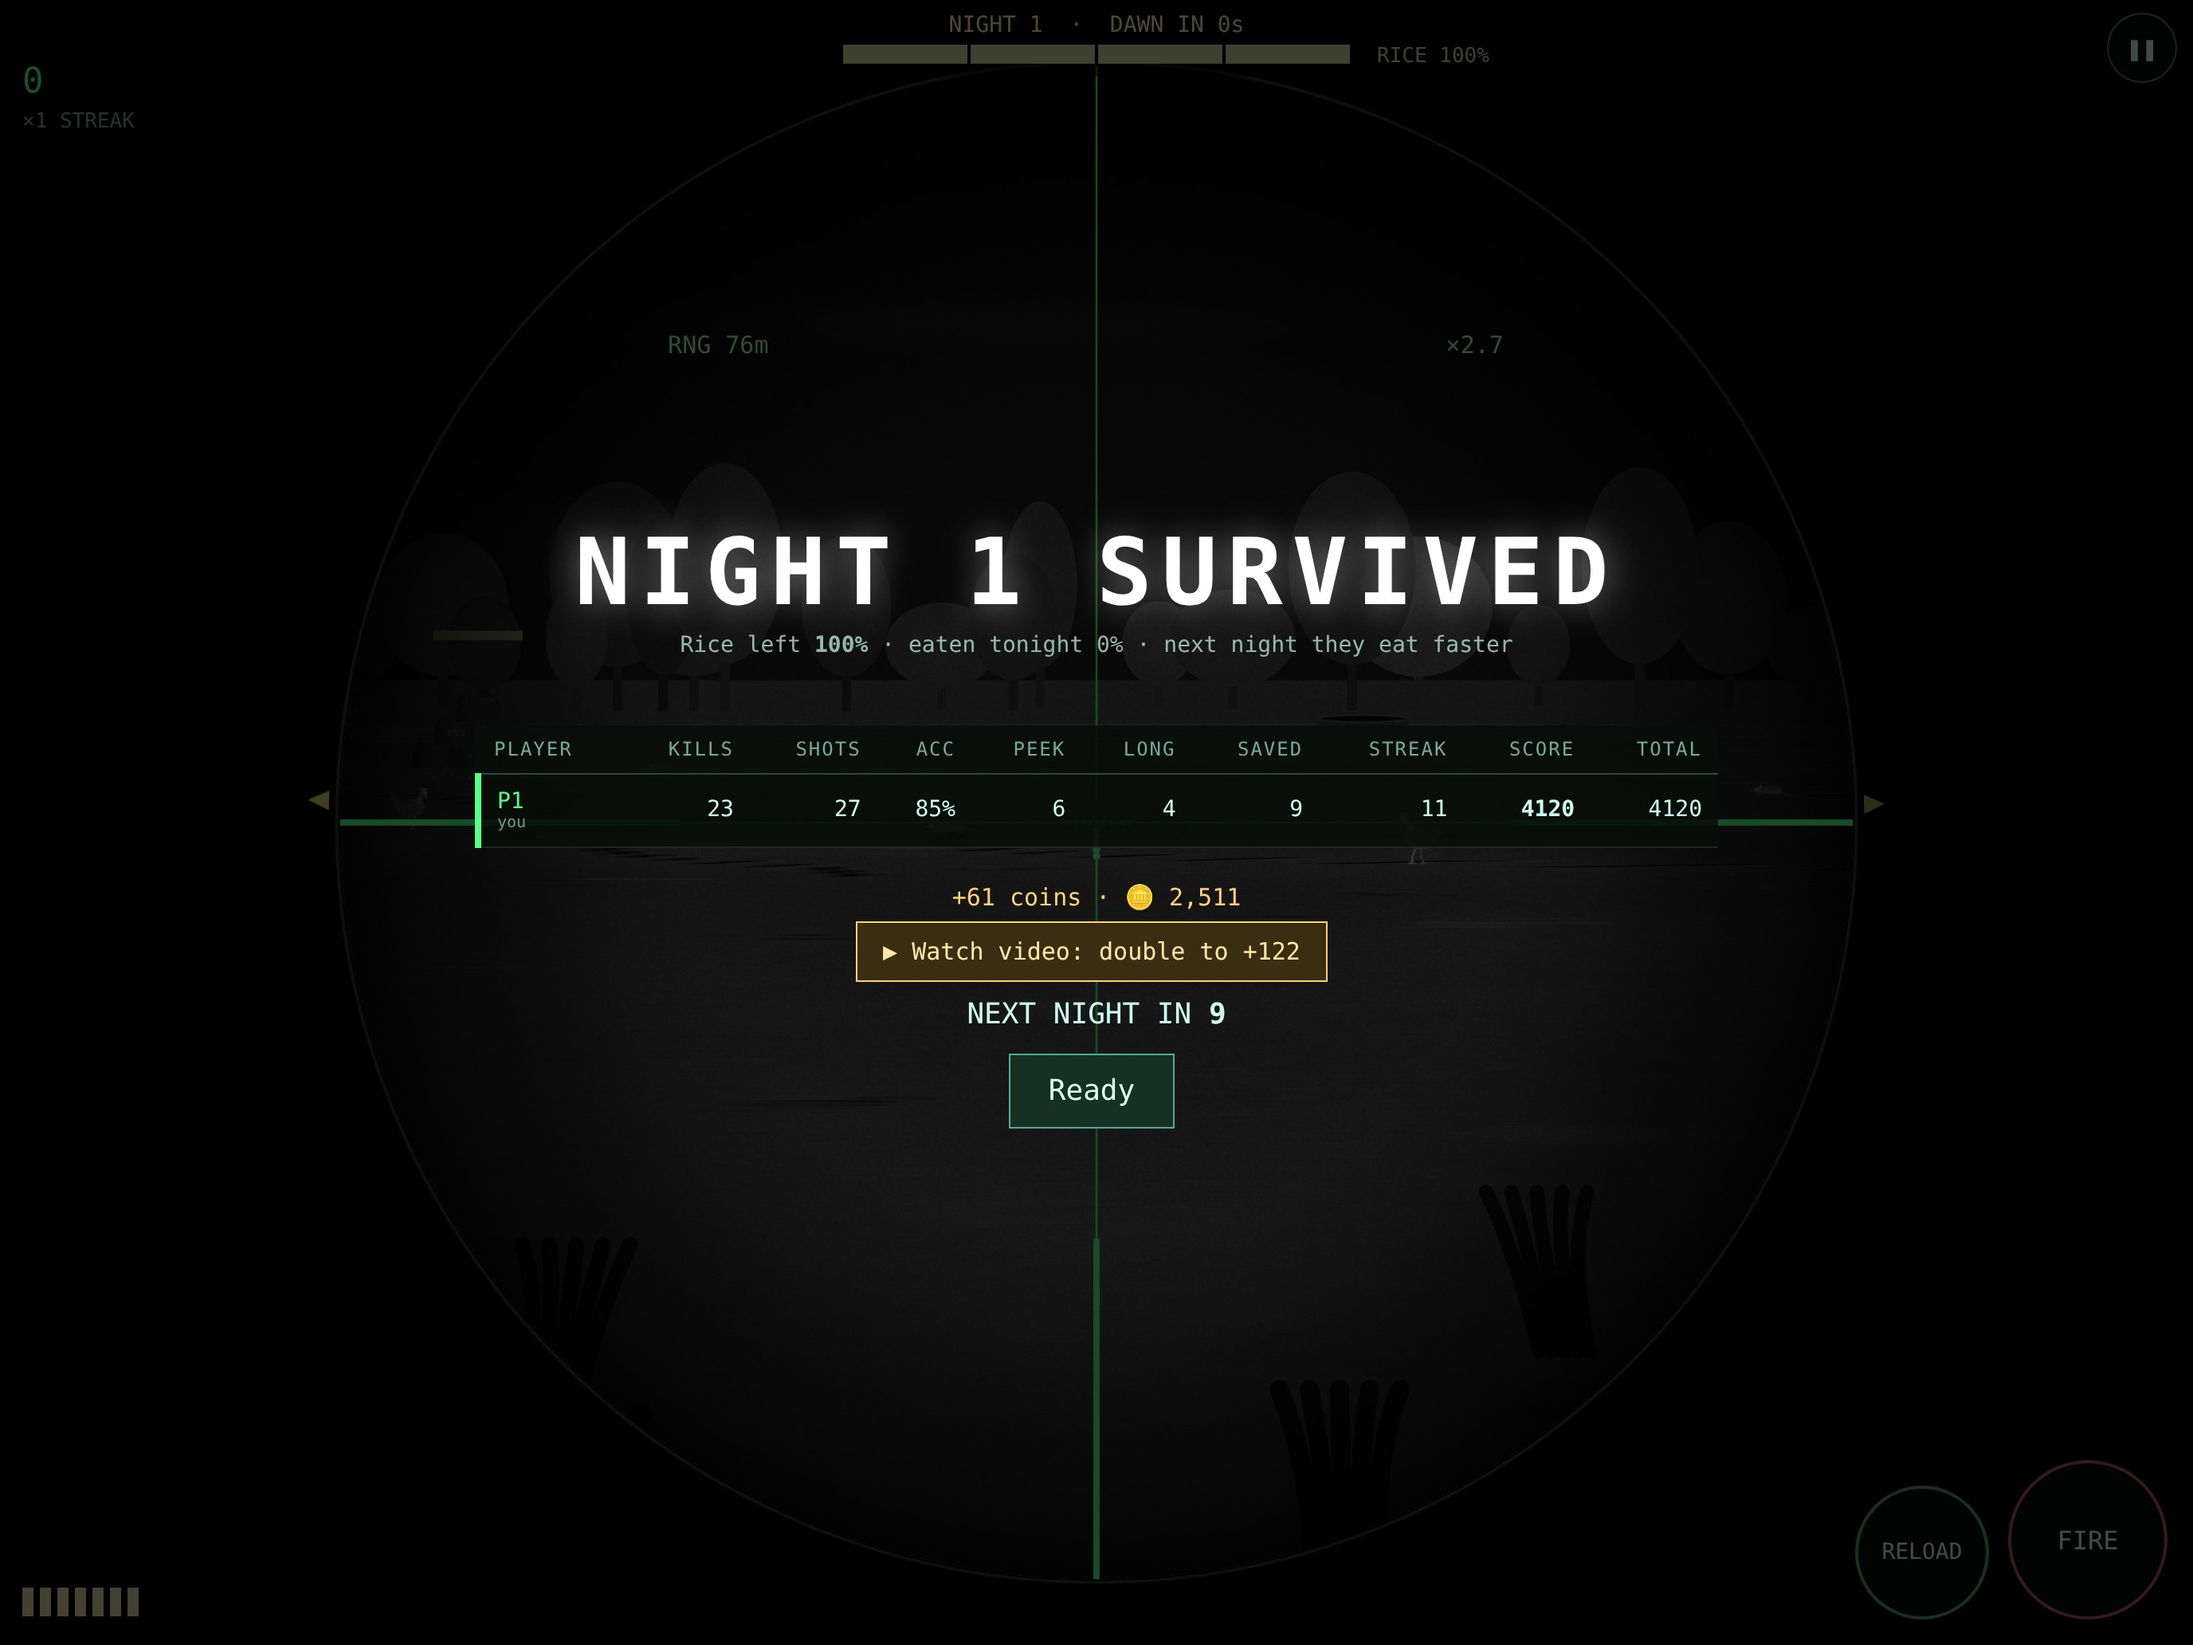
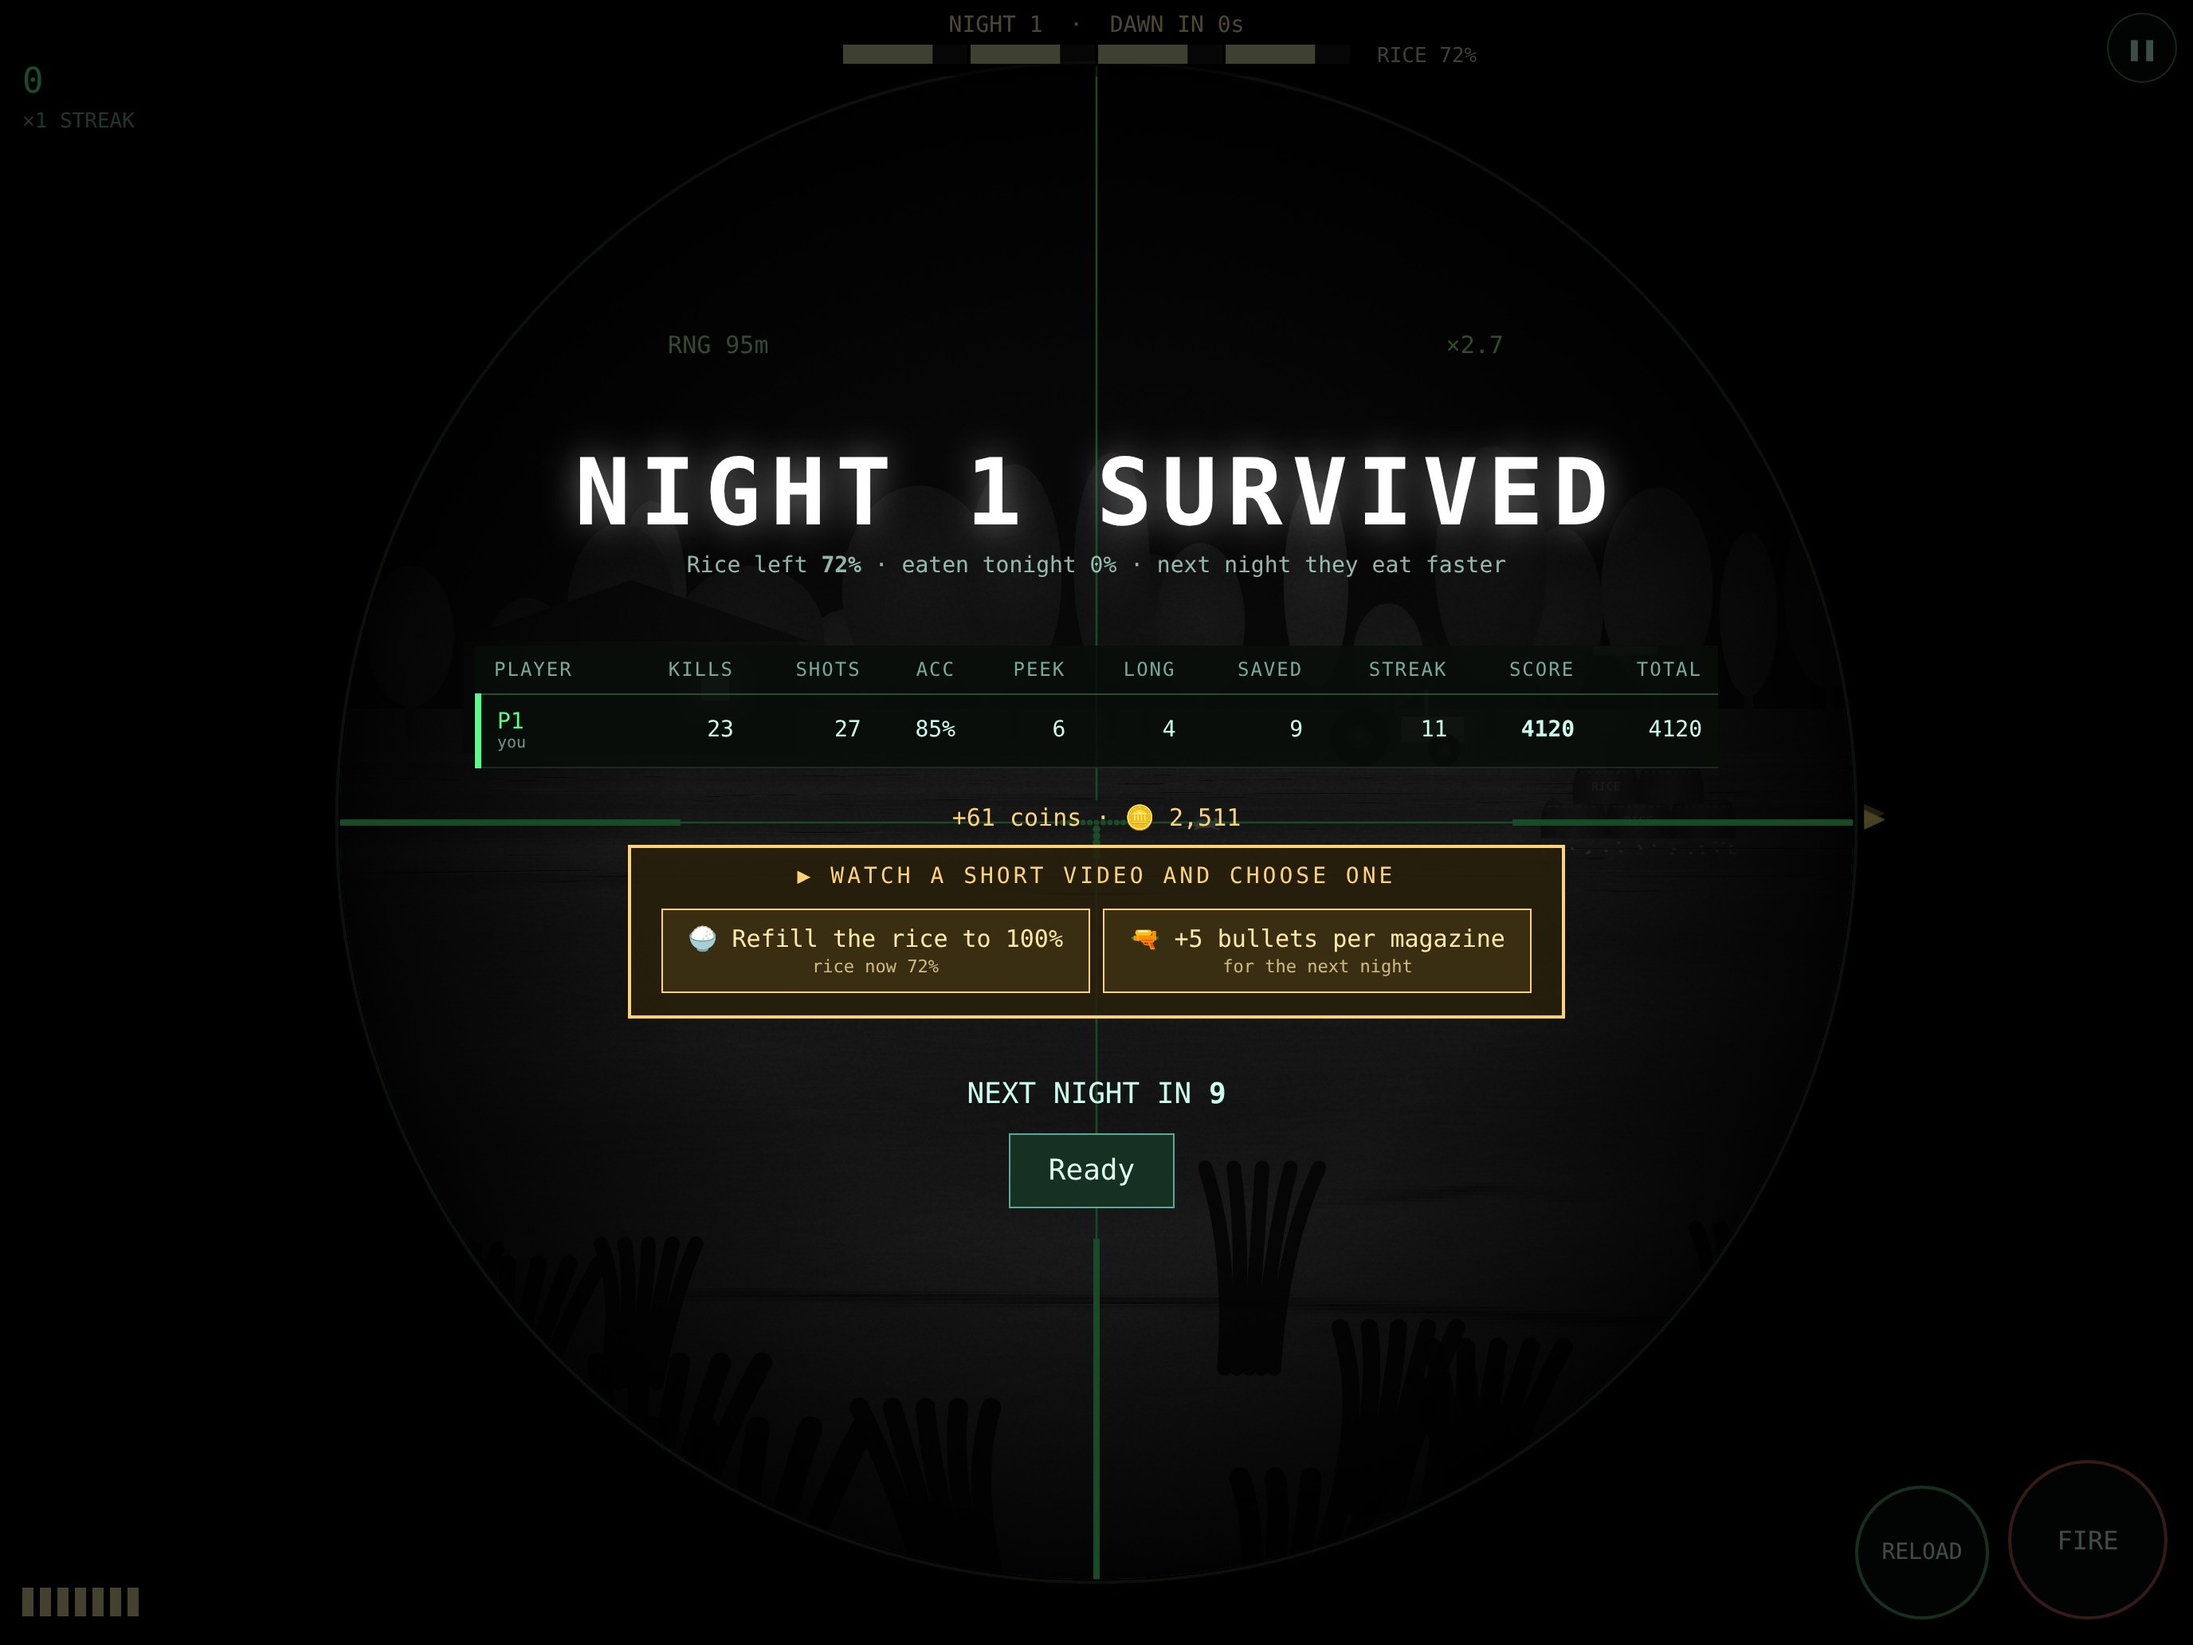
Night Scope: app-ads.txt for AdMob

diff --git a/games/index.html b/games/index.html
@@ -54,11 +54,15 @@ footer a{color:var(--muted)}
 <<<<<<< Updated upstream
 <<<<<<< Updated upstream
 <<<<<<< Updated upstream
+<<<<<<< Updated upstream
 <h1 style="margin-bottom:6px">Apps &amp; Games</h1><p class="sub" style="margin-bottom:28px">Made in Orewa, New Zealand by OCNZ Venture Limited.</p>
 <h2 class="group">Learning apps</h2>
 <div class="grid"><a class="game" href="https://www.mathx.nz/" target="_blank" rel="noopener"><img src="/images/apps/mathx.png" alt=""><div><b>MathX <span class="ext" aria-hidden="true">&#8599;</span></b><span>Free NZ curriculum maths practice, Years 6–13</span></div></a><a class="game" href="https://musicx.nz/" target="_blank" rel="noopener"><img src="/images/apps/musicx.png" alt="" class="light"><div><b>MusicX <span class="ext" aria-hidden="true">&#8599;</span></b><span>Interactive music theory and aural practice</span></div></a></div>
 <h2 class="group">Games</h2>
 <div class="grid"><a class="game" href="/games/dustwing/"><img src="/games/dustwing/icon.png" alt=""><div><b>Dustwing</b><span>Arcade air combat for iPhone and iPad</span></div></a><a class="game" href="/games/overrun/"><img src="/games/overrun/icon.png" alt=""><div><b>Overrun</b><span>Co-op robot-wave shooter for iPhone and iPad</span></div></a><a class="game" href="/games/nightscope/"><img src="/games/nightscope/icon.png" alt="Night Scope icon"><div><b>Night Scope</b><span>Thermal-scope farm pest defence, solo or co-op</span></div></a><a class="game" href="/games/paper-tanks/"><img src="/games/paper-tanks/icon.png" alt=""><div><b>Paper Tanks</b><span>Ink and fold tank battle for iPhone and iPhone Duo</span></div></a><a class="game" href="/games/slurp-squad/"><img src="/games/slurp-squad/icon.png" alt=""><div><b>Slurp Squad</b><span>Sketchbook swarm shooter for iPhone and iPad</span></div></a></div>
+=======
+<h1 style="margin-bottom:6px">Games</h1><p class="sub" style="margin-bottom:24px">Made in Orewa, New Zealand by OCNZ Venture Limited.</p><div class="grid"><a class="game" href="/games/dustwing/"><img src="/games/dustwing/icon.png" alt=""><div><b>Dustwing</b><span>Arcade air combat for iPhone and iPad</span></div></a><a class="game" href="/games/overrun/"><img src="/games/overrun/icon.png" alt=""><div><b>Overrun</b><span>Co-op robot-wave shooter for iPhone and iPad</span></div></a><a class="game" href="/games/nightscope/"><img src="/games/nightscope/icon.png" alt="Night Scope icon"><div><b>Night Scope</b><span>Thermal-scope farm pest defence, solo or co-op</span></div></a><a class="game" href="/games/paper-tanks/"><img src="/games/paper-tanks/icon.png" alt=""><div><b>Paper Tanks</b><span>Ink and fold tank battle for iPhone and iPhone Duo</span></div></a><a class="game" href="/games/slurp-squad/"><img src="/games/slurp-squad/icon.png" alt=""><div><b>Slurp Squad</b><span>Sketchbook swarm shooter for iPhone and iPad</span></div></a></div>
+>>>>>>> Stashed changes
 =======
 <h1 style="margin-bottom:6px">Games</h1><p class="sub" style="margin-bottom:24px">Made in Orewa, New Zealand by OCNZ Venture Limited.</p><div class="grid"><a class="game" href="/games/dustwing/"><img src="/games/dustwing/icon.png" alt=""><div><b>Dustwing</b><span>Arcade air combat for iPhone and iPad</span></div></a><a class="game" href="/games/overrun/"><img src="/games/overrun/icon.png" alt=""><div><b>Overrun</b><span>Co-op robot-wave shooter for iPhone and iPad</span></div></a><a class="game" href="/games/nightscope/"><img src="/games/nightscope/icon.png" alt="Night Scope icon"><div><b>Night Scope</b><span>Thermal-scope farm pest defence, solo or co-op</span></div></a><a class="game" href="/games/paper-tanks/"><img src="/games/paper-tanks/icon.png" alt=""><div><b>Paper Tanks</b><span>Ink and fold tank battle for iPhone and iPhone Duo</span></div></a><a class="game" href="/games/slurp-squad/"><img src="/games/slurp-squad/icon.png" alt=""><div><b>Slurp Squad</b><span>Sketchbook swarm shooter for iPhone and iPad</span></div></a></div>
 >>>>>>> Stashed changes
